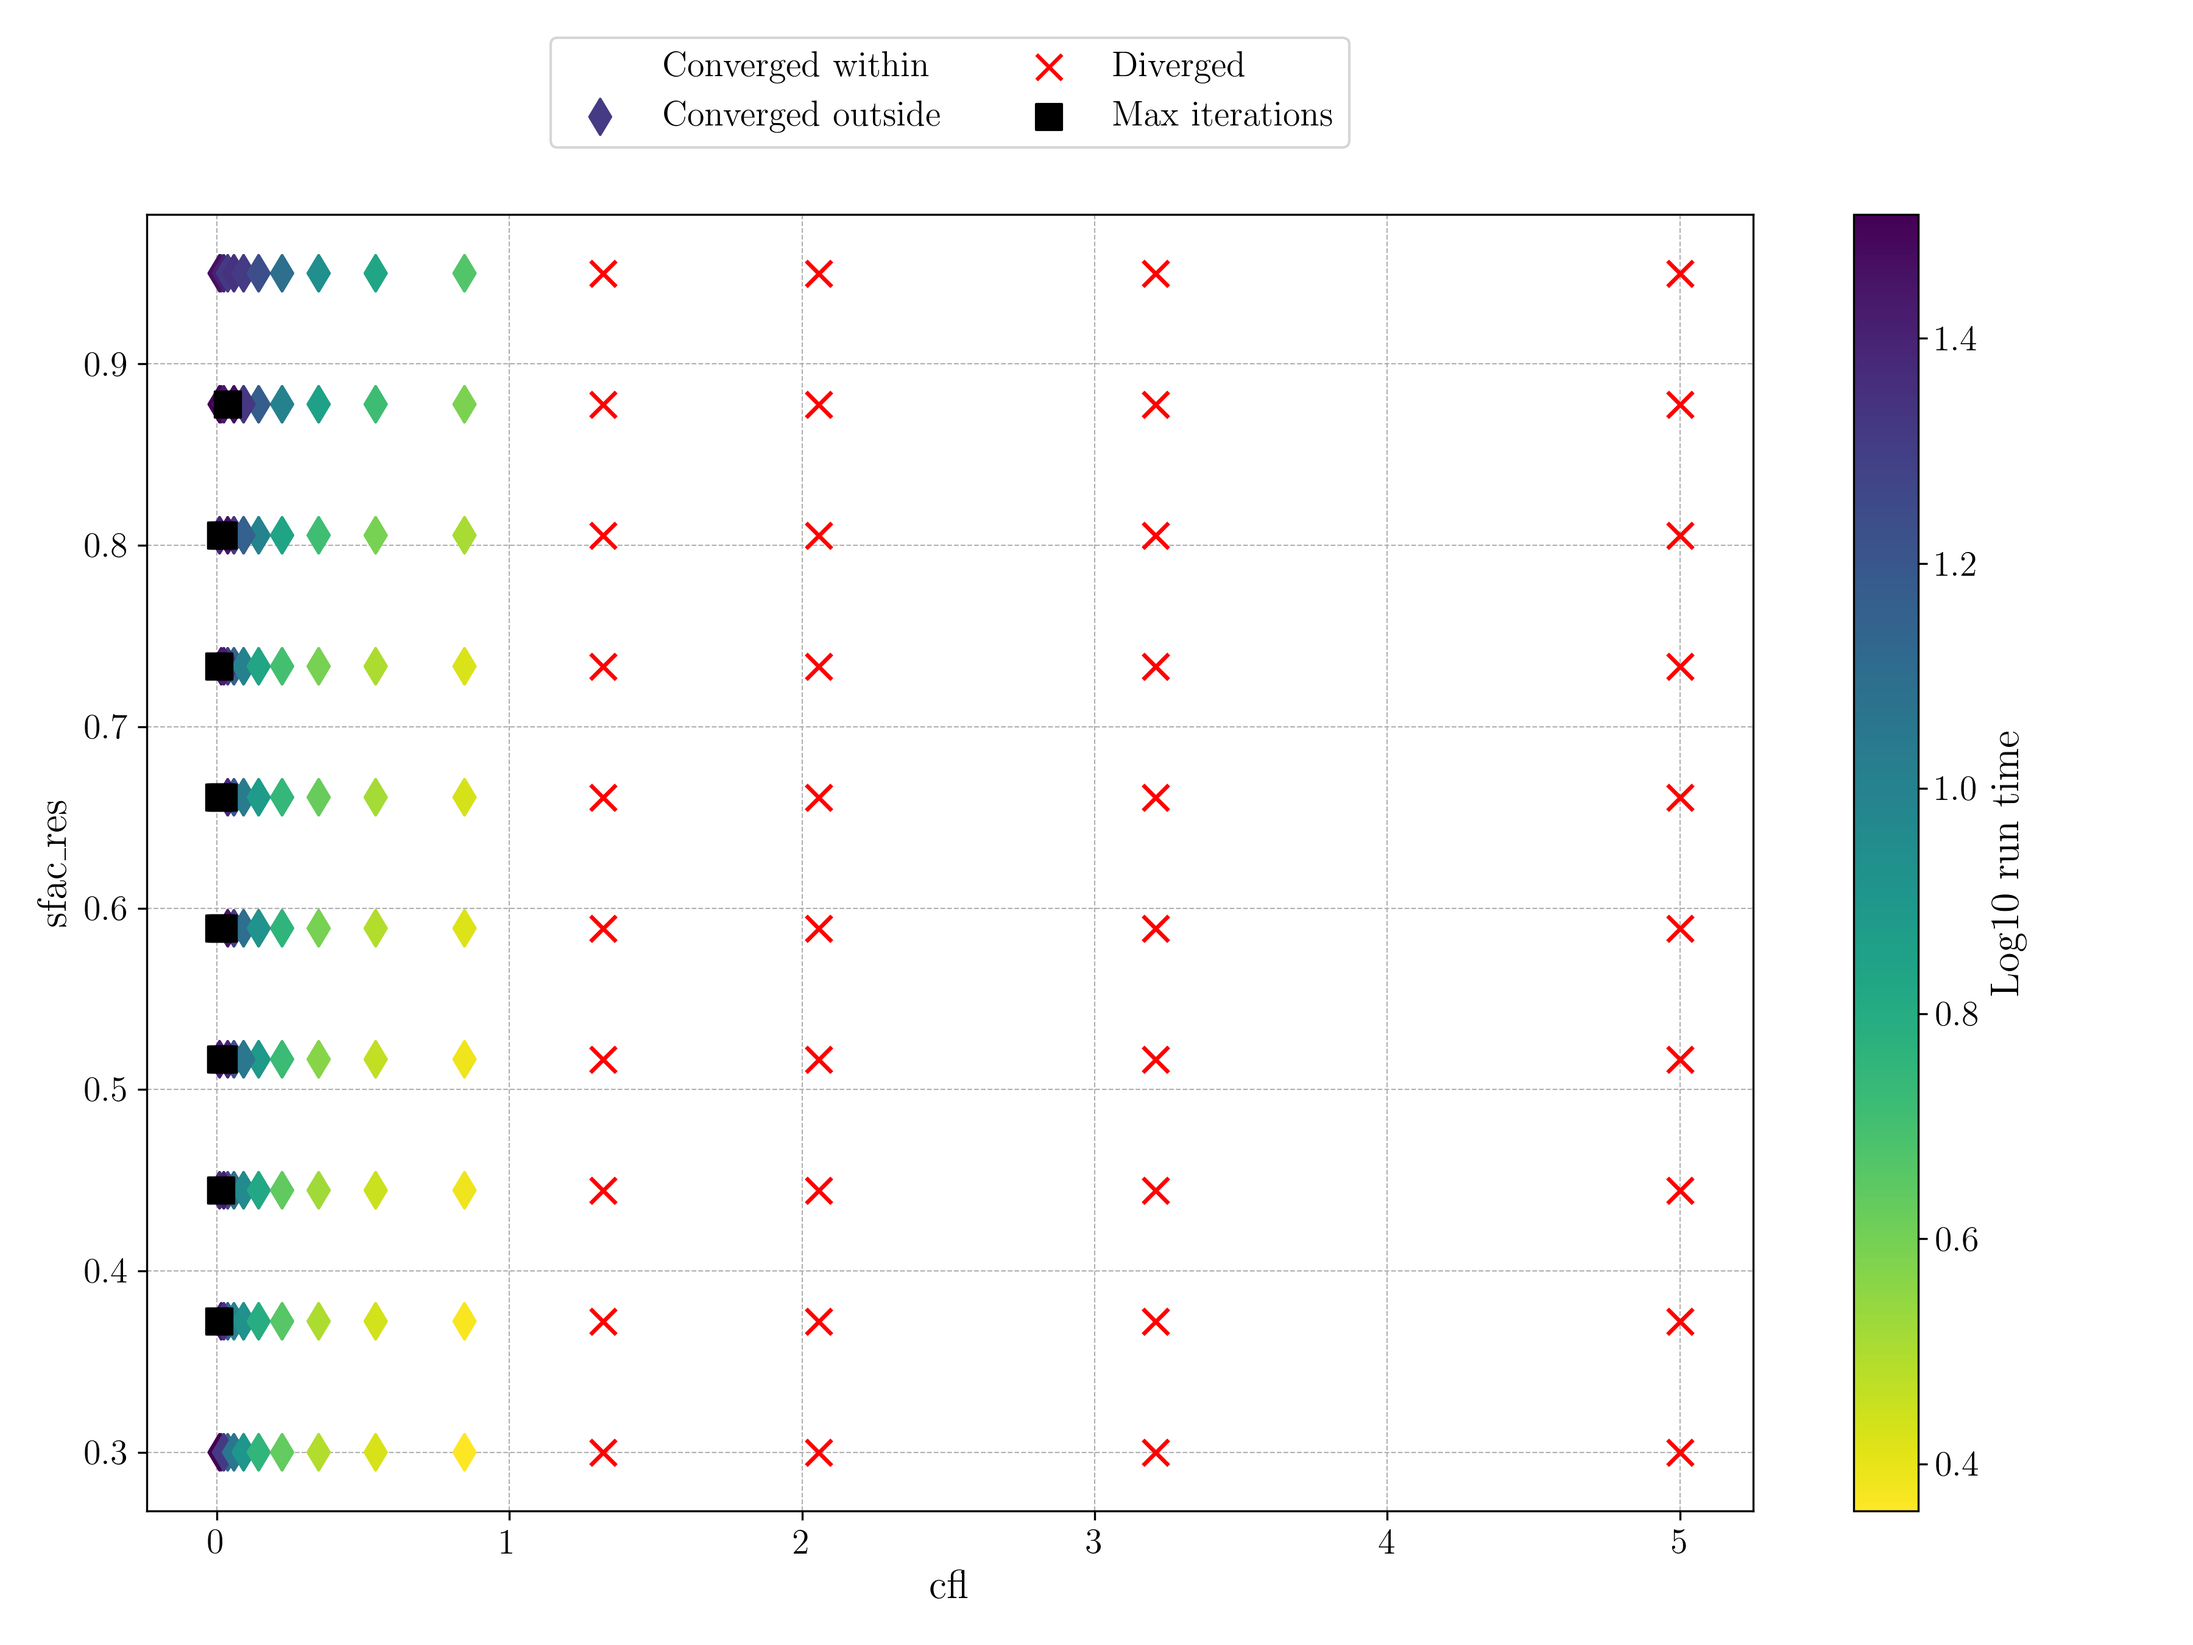
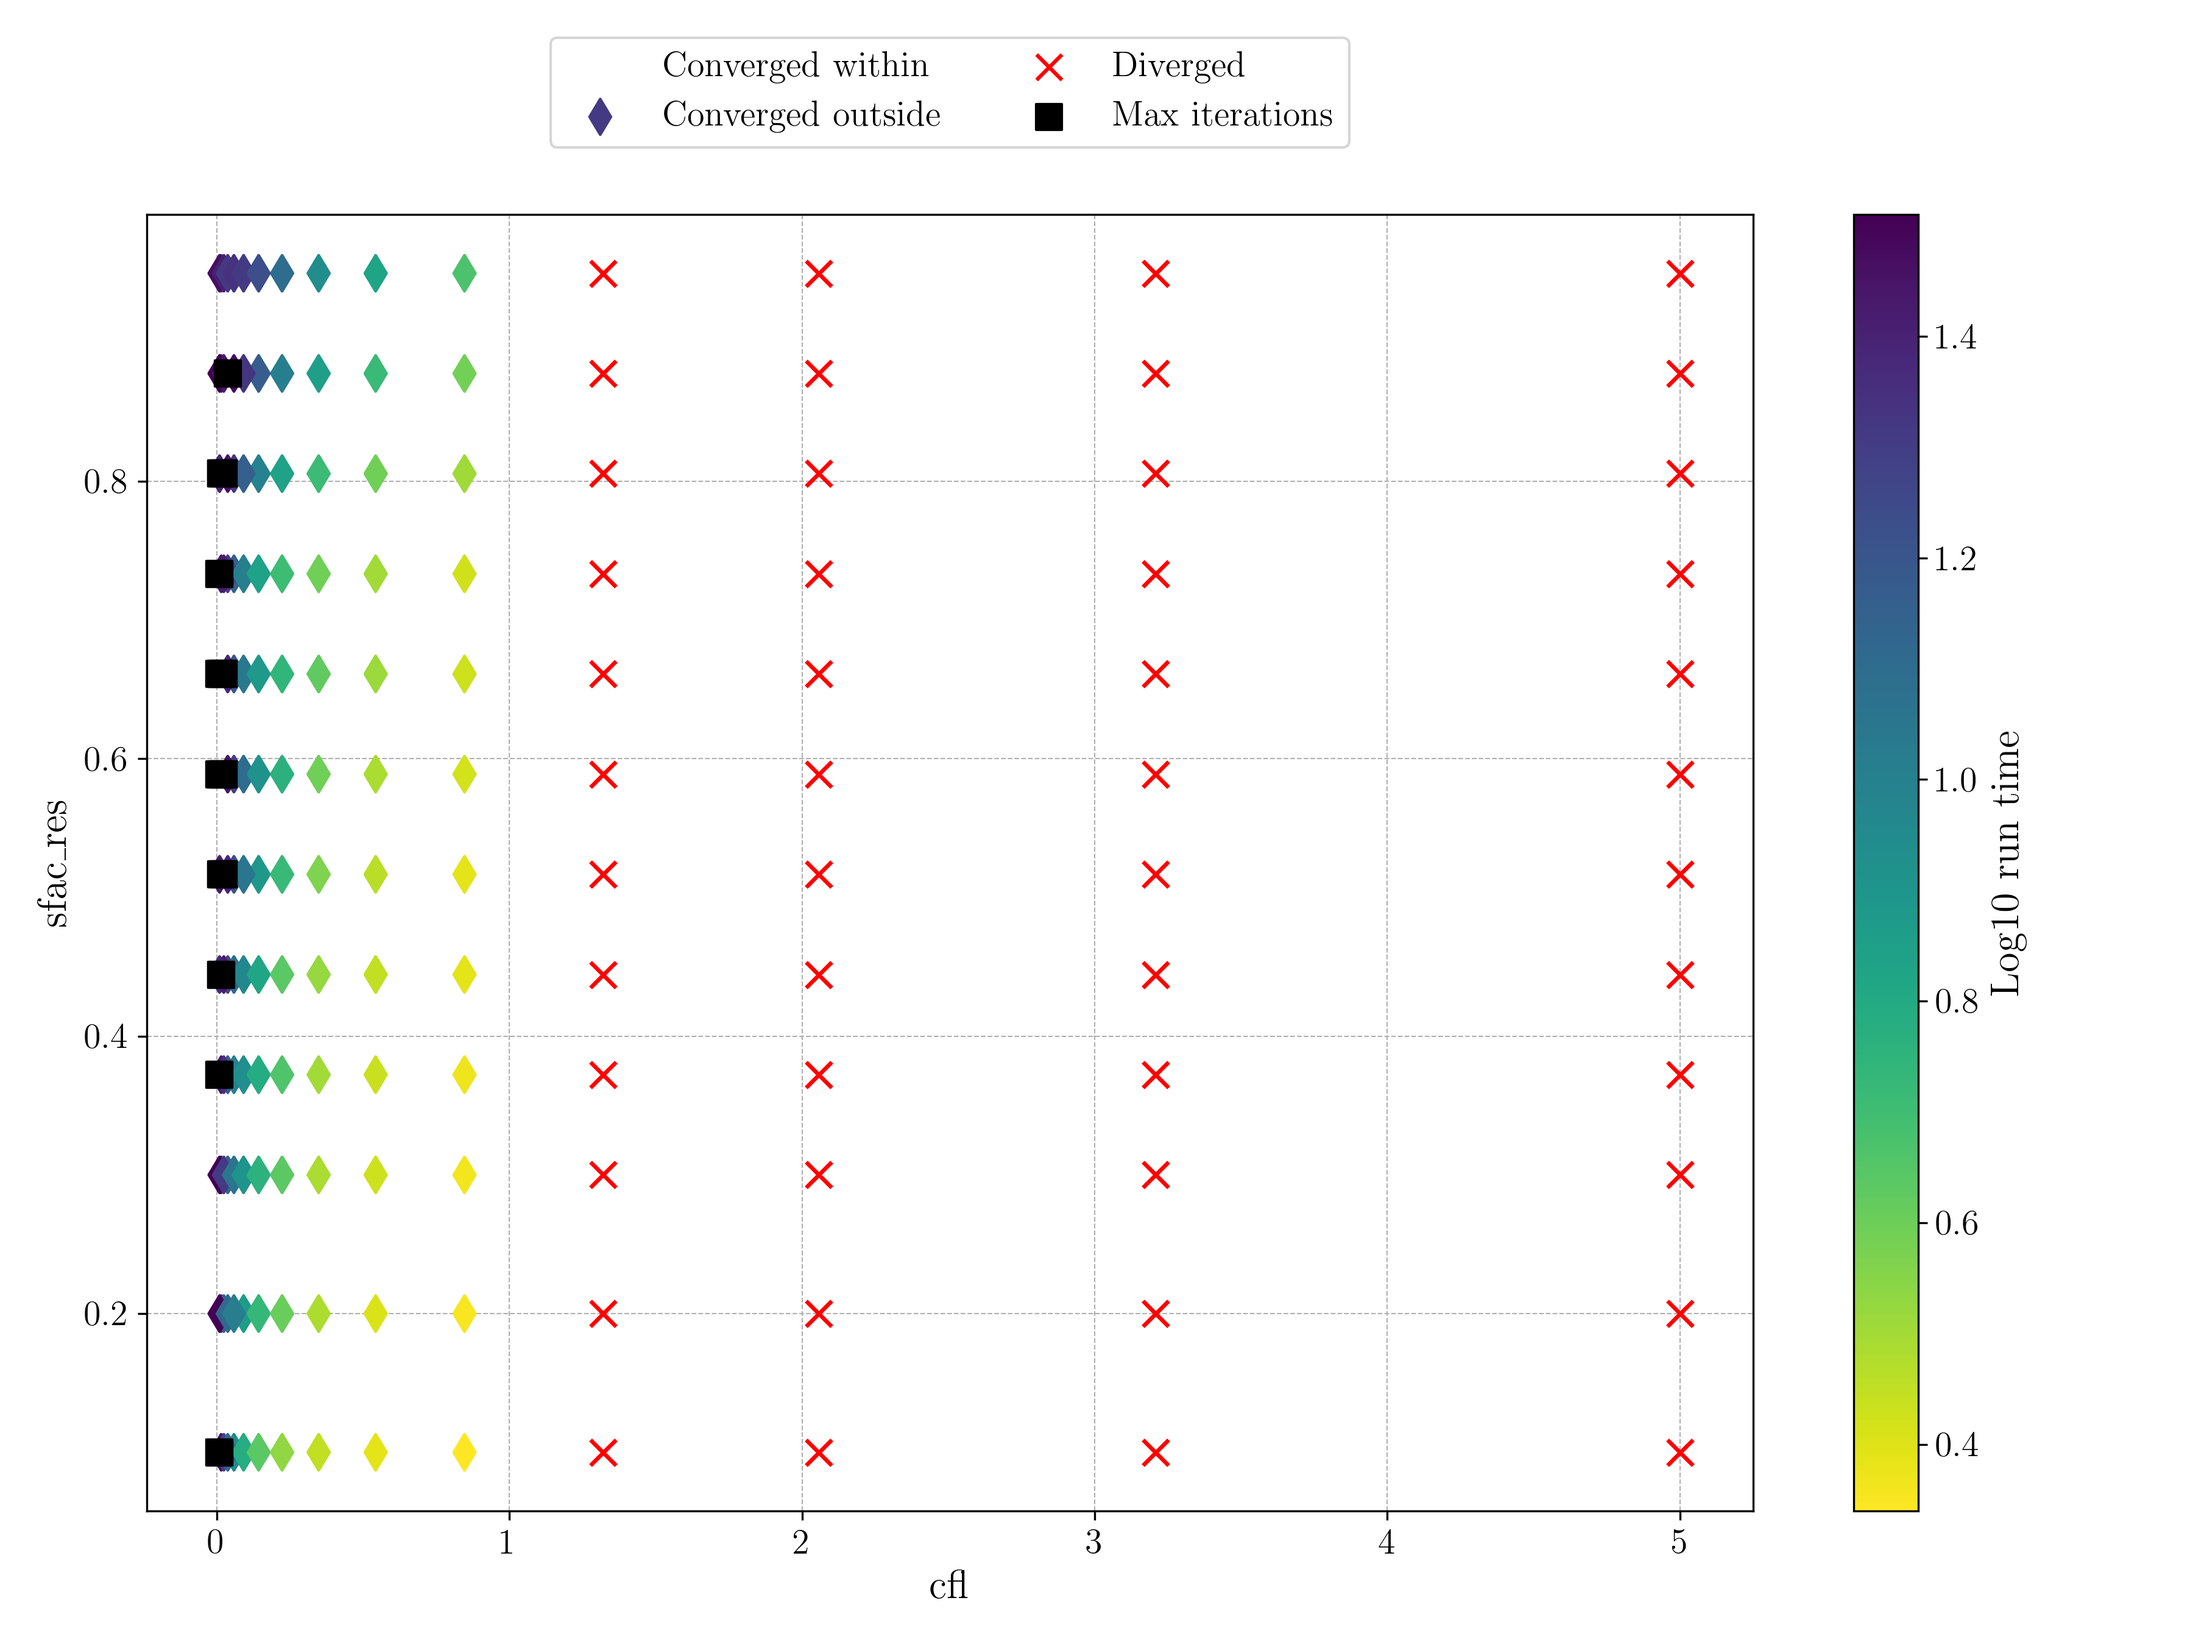
more datepoints at low sfac_res

diff --git a/report/final/improvements.py b/report/final/improvements.py
@@ -382,6 +382,7 @@ def plot_smoothing_sfac_res(av_template, data):
     cfls = np.logspace(-2, np.log10(5), 15, endpoint = True)
     # rewrite with arrange
     sfac_ress = np.linspace(0.3, 0.95, 10, endpoint = True)
+    sfac_ress = np.append(sfac_ress, [0.1, 0.2])
 
     avs = []
     for sfac_res in sfac_ress:
